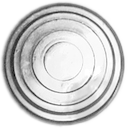
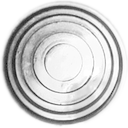
Register the lit and unlit LED lenses so their rings line up

diff --git a/CREDITS.md b/CREDITS.md
@@ -25,8 +25,8 @@ Every texture in `assets/` is processed from a photograph on Unsplash. Unsplash 
 | `leather-bar-edge-tan.png` | `leather-stitched_olga-kovalski-5_GUH12XnNc-unsplash.jpg` | olga-kovalski | `make_bar_edge.py leather-frame-tan-soft.png OUT 68 50` |
 | `leather-bar-edge-black.png` | `leather-stitched_olga-kovalski-5_GUH12XnNc-unsplash.jpg` | olga-kovalski | `make_bar_edge.py leather-frame-black-soft.png OUT 68 50` |
 | `wood-frame.jpg` | `wood-frame_se-tsuchiya--EkbLo1LdEM-unsplash.png` | se-tsuchiya | `make_wood_frame.py ... 556 28` |
-| `led-lens-lit.png` | `tao-yuan-R4Hv6RnF05Q-unsplash.jpg` | tao-yuan | `make_led_lens.py ... 278 260 124 128 3 0.5` |
-| `led-lens-unlit.png` | `tao-yuan-R4Hv6RnF05Q-unsplash.jpg` | tao-yuan | `make_led_lens.py ... 790 255 120 128 3 0.6` |
+| `led-lens-lit.png` | `tao-yuan-R4Hv6RnF05Q-unsplash.jpg` | tao-yuan | `make_led_lens.py ... 278 258 128 128 3 0.5` |
+| `led-lens-unlit.png` | `tao-yuan-R4Hv6RnF05Q-unsplash.jpg` | tao-yuan | `make_led_lens.py ... 809 261 120 128 3 0.6` |
 
 The scripts are in `tools/texture-pipeline/` and the source photos are in `textures/`.
 
